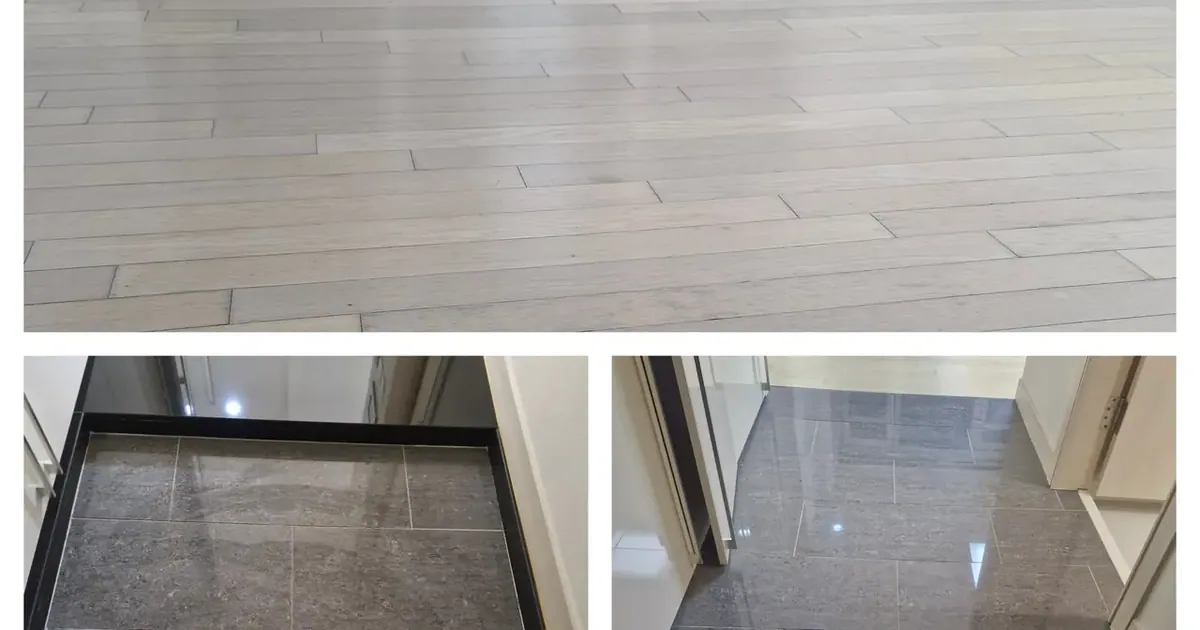
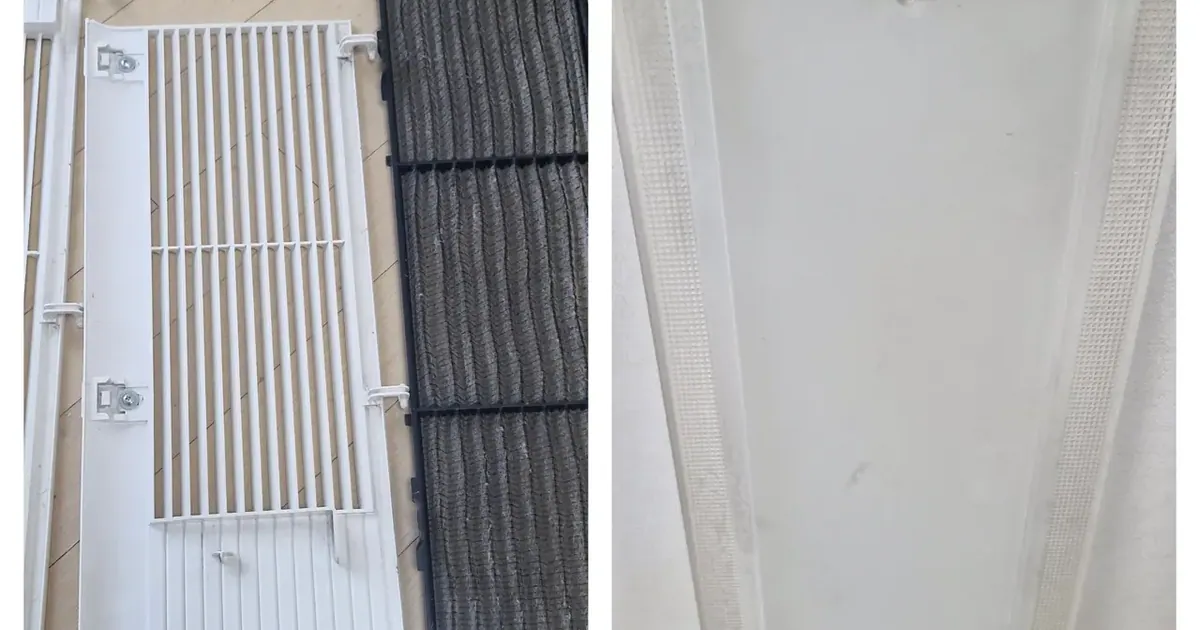
Publish the twenty-minute version of a deep clean
The companion to yesterday's post: that one showed what a crew takes apart,
this one shows the four things a tenant can take apart themselves, in about
twenty minutes, with washing-up liquid and a sink.

Hood filters slide out. The aircon front panel unclips and the filters behind
it rinse from the back, not the front, and go back only when dry. The bathroom
floor drain is a stack of three — grating, cup trap, rubber collar — and the
cup is where the smell lives, so it goes back with water in it. Insect screens
lift out of the frame and wash flat.

Then the line: aircon strip-downs, blackened silicone, anything gas, and a
drain still slow after the trap is clean are all somebody else's job. Each one
points at the guide that covers it.

Eight photographs from the same flat as yesterday's post, none of them reused.

diff --git a/public/index.html b/public/index.html
@@ -338,6 +338,15 @@
         </p>
         <!-- LATEST:START -->
         <div class="post-grid">
+          <a class="post-card" href="/blog/clean-filters-drains-yourself-korea/">
+            <div class="post-thumb"><img src="/img/blog-latest/clean-filters-drains-yourself-korea.webp" alt="" width="1200" height="630" loading="lazy" decoding="async"></div>
+            <div class="post-body">
+              <span class="post-cat">Home</span>
+              <h3>Range Hood and Aircon Filter Cleaning in Korea: 20 Minutes</h3>
+              <p>Four things in a Korean rental that slide out and wash in a sink: hood filters, aircon filters, the floor drain trap, the screens. And where to stop.</p>
+              <span class="post-more">Read →</span>
+            </div>
+          </a>
           <a class="post-card" href="/blog/deep-clean-what-comes-apart/">
             <div class="post-thumb"><img src="/img/blog-latest/deep-clean-what-comes-apart.webp" alt="" width="1200" height="630" loading="lazy" decoding="async"></div>
             <div class="post-body">
@@ -353,15 +362,6 @@
               <span class="post-cat">Things to do</span>
               <h3>K-Pop Dance Classes in Seoul: How to Find One Near You</h3>
               <p>The Korean word is 방송댄스, and it changes what you find. Tourist one-day classes, neighbourhood studios, what a class is like, and how to book one.</p>
-              <span class="post-more">Read →</span>
-            </div>
-          </a>
-          <a class="post-card" href="/blog/gangnam-move-in-clean-chuseok/">
-            <div class="post-thumb"><img src="/img/blog-latest/gangnam-move-in-clean-chuseok.webp" alt="" width="1200" height="630" loading="lazy" decoding="async"></div>
-            <div class="post-body">
-              <span class="post-cat">Home</span>
-              <h3>Move-In Cleaning in Gangnam, the Day Before Chuseok</h3>
-              <p>A mother in Europe asked us to clean her daughter's new Gangnam flat. Nobody was working — so we did it ourselves. Three hours, three passes, one balcony.</p>
               <span class="post-more">Read →</span>
             </div>
           </a>

diff --git a/src/content/blog/clean-filters-drains-yourself-korea/index.md b/src/content/blog/clean-filters-drains-yourself-korea/index.md
@@ -1,0 +1,155 @@
+---
+title: "Range Hood and Aircon Filter Cleaning in Korea: 20 Minutes"
+description: "Four things in a Korean rental that slide out and wash in a sink: hood filters, aircon filters, the floor drain trap, the screens. And where to stop."
+pubDate: 2026-10-04T21:45:00+09:00
+service: cleaning
+category: home
+tags: ["cleaning", "aircon", "kitchen", "diy", "maintenance"]
+cover: "./cover.webp"
+coverAlt: "Two air conditioner filters grey with dust beside the clean grille panels that cover them"
+coverCaption: "Twenty minutes, a sink, and nothing you have to buy"
+draft: false
+---
+
+A deep clean crew will take your flat apart, wash the parts and put them back.
+That is [what you are paying for](/blog/deep-clean-what-comes-apart/), and it
+is worth it once or twice a year.
+
+In between, there are **four things you can do yourself in about twenty
+minutes**, with nothing but washing-up liquid and a sink. They are the four
+that make the biggest difference, and almost nobody living in a Korean rental
+does them — not out of laziness, but because nothing in the flat tells you
+they come apart at all.
+
+## 1. The range hood filters (5 minutes)
+
+![The tile wall behind a kitchen hood, a plastic cover panel removed from it, and the stainless hood front](./kitchen-tile-hood-cover-and-stainless-panel.webp)
+
+*Covers off, and the wall behind them · ⓒ @BalliBalliSeoul*
+
+The metal mesh panels under your extractor **slide out**. There is a small
+catch or a handle; push, tilt, and they drop into your hand.
+
+They are usually saturated with oil, because a Korean kitchen fries a lot and
+the filter is the first thing the smoke meets.
+
+**How to wash them:** hot water, washing-up liquid, and twenty minutes of
+soaking in the sink before you touch them with a brush. For the ones that are
+genuinely bad, add a spoon of baking soda to the hot water. Dry them before
+they go back.
+
+**How often:** every month or two if you cook most days.
+
+## 2. The aircon filters (5 minutes)
+
+![An air conditioner grille removed and laid on the floor beside two filters grey with dust](./aircon-grille-filters-and-light-cover.webp)
+
+*The grille comes off, the two filters slide out behind it — and the ceiling light cover comes down the same way · ⓒ @BalliBalliSeoul*
+
+The front panel of a wall unit **unclips** — usually two tabs at the bottom
+edge — and lifts up. Behind it are one or two mesh filters that slide
+straight out.
+
+**How to wash them:** rinse from the back under the tap so the dust comes out
+the way it went in, not through the mesh. Washing-up liquid if they are
+greasy. **Dry completely** before refitting, because a damp filter in a dark
+unit is how a Korean aircon starts to smell.
+
+**How often:** monthly through the summer. Two minutes each.
+
+**Where to stop.** Filters are yours. The drum, the fins and the drain pan
+behind them are not — that is a 분해세척, a full strip-down with machinery,
+and it is [a separate job](/blog/aircon-cleaning-korea/). If the unit smells
+when it is running and the filters are clean, the smell is behind them.
+
+## 3. The bathroom floor drain trap (5 minutes)
+
+![A shower corner shelf, mixer tap, and a floor drain taken apart into grating, cup trap and rubber collar](./shower-shelf-mixer-and-floor-drain-dismantled.webp)
+
+*Bottom left: the pieces a Korean floor drain is made of · ⓒ @BalliBalliSeoul*
+
+This is the one that surprises people. A Korean floor drain is not a hole —
+it is **a stack of three parts**: the metal grating, a plastic cup underneath
+that holds a seal of water, and a rubber collar below that.
+
+Lift the grating. Lift the cup out. **That cup is where the smell lives**,
+and pouring anything down the drain while it is in place achieves very
+little.
+
+**How to wash it:** gloves, hot water, a brush, and put the cup back *with
+water in it* — the water is the seal that stops sewer gas coming up. If your
+bathroom smells after a holiday, this is why: the seal dried out.
+
+**How often:** monthly, or whenever the drain is slow or smells.
+
+![A bathroom after cleaning: basin, toilet seat and bidet sprayer](./basin-toilet-seat-and-bidet-sprayer-after.webp)
+
+*While you are in there: the bidet seat unclips from its bracket · ⓒ @BalliBalliSeoul*
+
+## 4. The insect screens and window tracks (5 minutes)
+
+![A window track thick with grime before cleaning, beside a clean insect screen](./window-track-dirty-and-screen-after.webp)
+
+*Before, and after · ⓒ @BalliBalliSeoul*
+
+The **방충망 (bangchungmang)** — the insect screen — lifts out of its frame.
+Wash it flat with a sponge, both sides, and let it dry leaning against a wall.
+
+The track underneath is the part that makes a flat look cleaned or not. A
+narrow brush, then a damp cloth, then a dry one.
+
+**How often:** twice a year is plenty. Spring, before you start opening
+windows, and autumn.
+
+## What else is worth ten minutes, while you are at it
+
+![Refrigerator interior panels after cleaning](./fridge-interior-panels-after.webp)
+
+*Fridge shelves come out and wash in the sink · ⓒ @BalliBalliSeoul*
+
+**Fridge shelves and drawers lift out.** Wash them in the sink rather than
+wiping them in place, and wipe the cabinet while they are out.
+
+![Cupboard shelves after cleaning, beside the grime under a kitchen sink before](./cabinet-shelves-after-and-under-sink-grime.webp)
+
+*The cupboard under the sink is the one nobody opens · ⓒ @BalliBalliSeoul*
+
+**Look under the sink once in a while.** It is where a slow leak announces
+itself, and finding it early is the difference between a cloth and a
+[plumber](/plumbing).
+
+## Where to stop
+
+Four things are not yours to do, and knowing the line saves money.
+
+| Leave it | Why |
+|---|---|
+| **Aircon strip-down (분해세척)** | Machinery, chemicals and a drain pan you cannot reach |
+| **Silicone gone black through its depth** | A repair — cut out and replaced, not cleaned. See [bathroom deep clean](/blog/bathroom-deep-clean-seoul/) |
+| **Anything gas** | The hob's burner parts wash in the sink; the gas line and fittings do not get touched |
+| **A drain that is slow after the trap is clean** | The blockage is further along. [Clearing it](/blog/toilet-unclogging-cost-seoul/) is a trade |
+
+## The Korean part
+
+None of the four jobs above needs Korean. The shopping might: ask a hardware
+shop or a Daiso staff member for **주방세제** (washing-up liquid), **베이킹
+소다**, or **청소솔** (cleaning brush) and you will be pointed at the right
+shelf.
+
+Where Korean starts to matter is the moment something does not go back
+together, or the smell persists after you have done everything on this page.
+That is a phone call, and it is the one we make for you.
+
+## Get it sorted
+
+Do the twenty minutes. It is genuinely most of the benefit, and it costs
+nothing.
+
+When you hit the line — the aircon that still smells with clean filters, the
+drain that is still slow with a clean trap, the silicone that has gone black
+— send us a photo. We will tell you which trade it is and what it should
+cost, and book it in Korean if you want us to.
+
+If the flat has not had a proper going-over in a year, that is the
+[deep clean](/blog/deep-clean-korea-sorting-first/) rather than the twenty
+minutes, and the [cleaning page](/cleaning) has the price list.

diff --git a/src/content/blog/deep-clean-what-comes-apart/index.md b/src/content/blog/deep-clean-what-comes-apart/index.md
@@ -130,6 +130,8 @@ than after you move in, which is the timing problem described in
 
 ## What this means for the quote you get
 
+And between deep cleans, four of those parts are yours to pull out and wash in a sink — [the twenty minutes you can do yourself](/blog/clean-filters-drains-yourself-korea/).
+
 Three practical consequences, if you are deciding what to book.
 
 1. **Ask what comes off.** "Do you remove the hood filters, the aircon

diff --git a/src/content/blog/aircon-cleaning-korea/index.md b/src/content/blog/aircon-cleaning-korea/index.md
@@ -219,6 +219,8 @@ Filters are the part a whole-flat deep clean already covers — [what actually c
 
 ## Get it sorted
 
+Filters, though, are a five-minute job you can do monthly: [the twenty minutes you can do yourself](/blog/clean-filters-drains-yourself-korea/).
+
 Rinse the filter, run fan mode after cooling, and if the smell is
 already there, book a full strip rather than a wipe. Those three moves
 cover almost every version of this.

diff --git a/src/content/blog/bathroom-deep-clean-seoul/index.md b/src/content/blog/bathroom-deep-clean-seoul/index.md
@@ -156,6 +156,8 @@ different job from one that has not been touched since the last tenant.
 
 ## Keeping it that way
 
+The floor drain trap comes apart in your hands, and it is the one that stops the smell — [the twenty minutes you can do yourself](/blog/clean-filters-drains-yourself-korea/).
+
 The habits that matter in a wet room are small and dull.
 
 **Run the fan after, not during.** Twenty to thirty minutes after a shower
